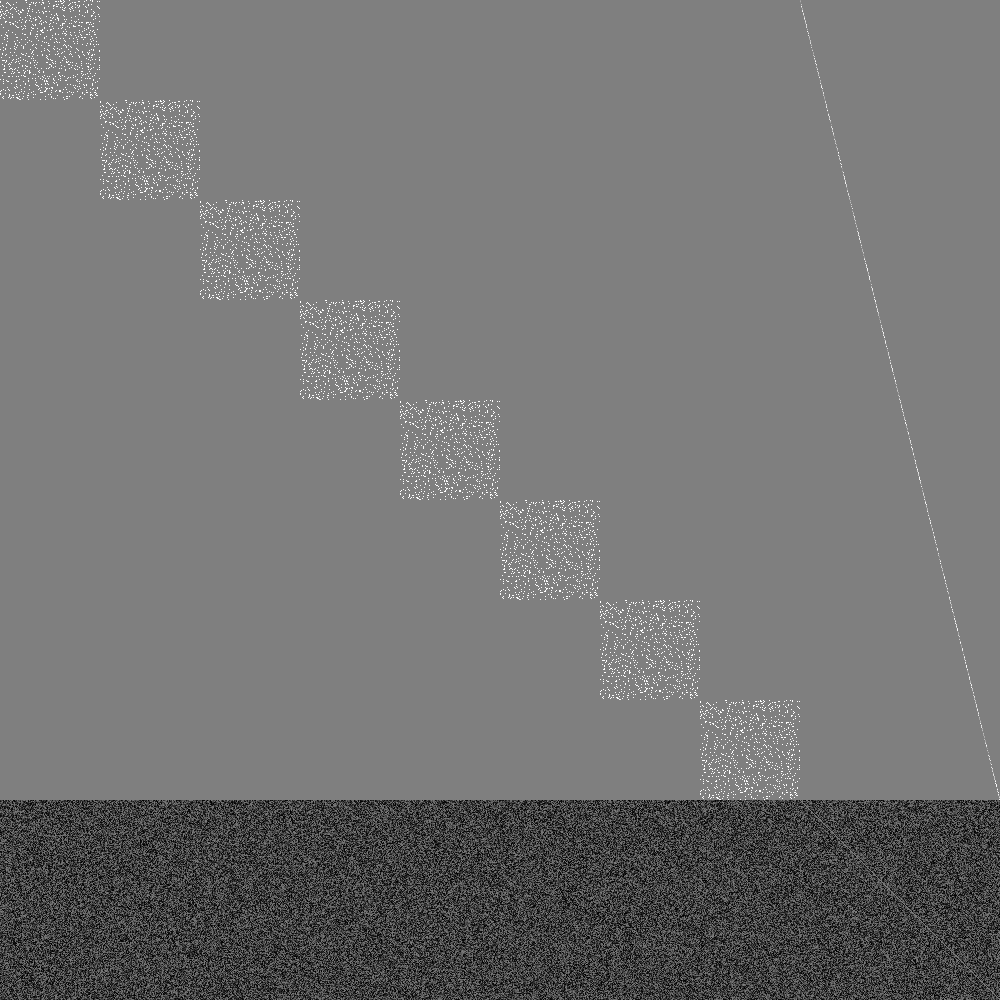
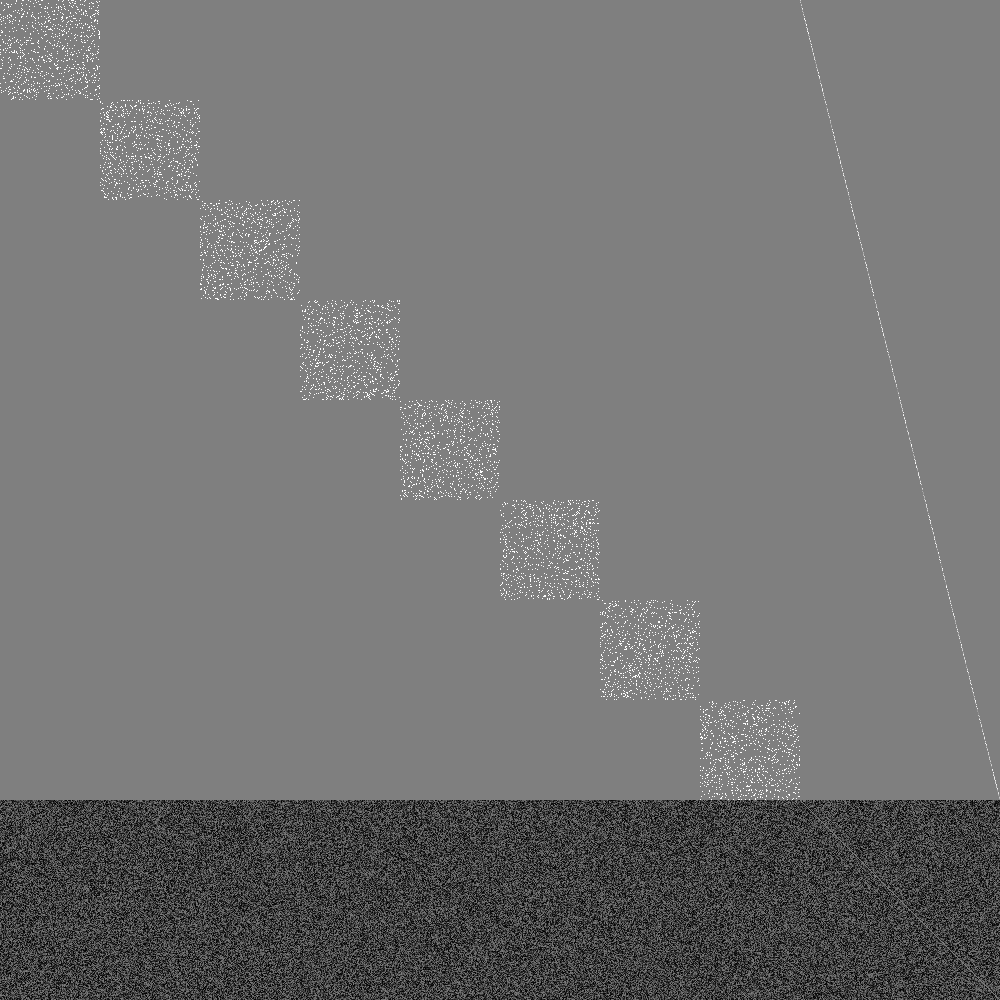
fix ee block: random create for each position

diff --git a/utils/swm_network.py b/utils/swm_network.py
@@ -41,7 +41,6 @@ class SWMNetwork:
         F_IE = 2
         F_II = 1
 
-        EE_block = create_EE_block()
         zero_block = np.zeros((100, 100))
         II_block = -1 * np.random.random(size=(200, 200))
         np.fill_diagonal(II_block, 0)
@@ -59,7 +58,7 @@ class SWMNetwork:
         """
         ## TODO generate W matrix
         W = np.bmat([
-            [zero_block for _ in range(0, i)] + [EE_block] + [zero_block for _ in range(i+1, 8)] + [EI_blocks[i]] for i in range(8)
+            [zero_block for _ in range(0, i)] + [create_EE_block()] + [zero_block for _ in range(i+1, 8)] + [EI_blocks[i]] for i in range(8)
         ] + [IE_blocks + [II_block]])
 
         plot_weight_matrix(W)
